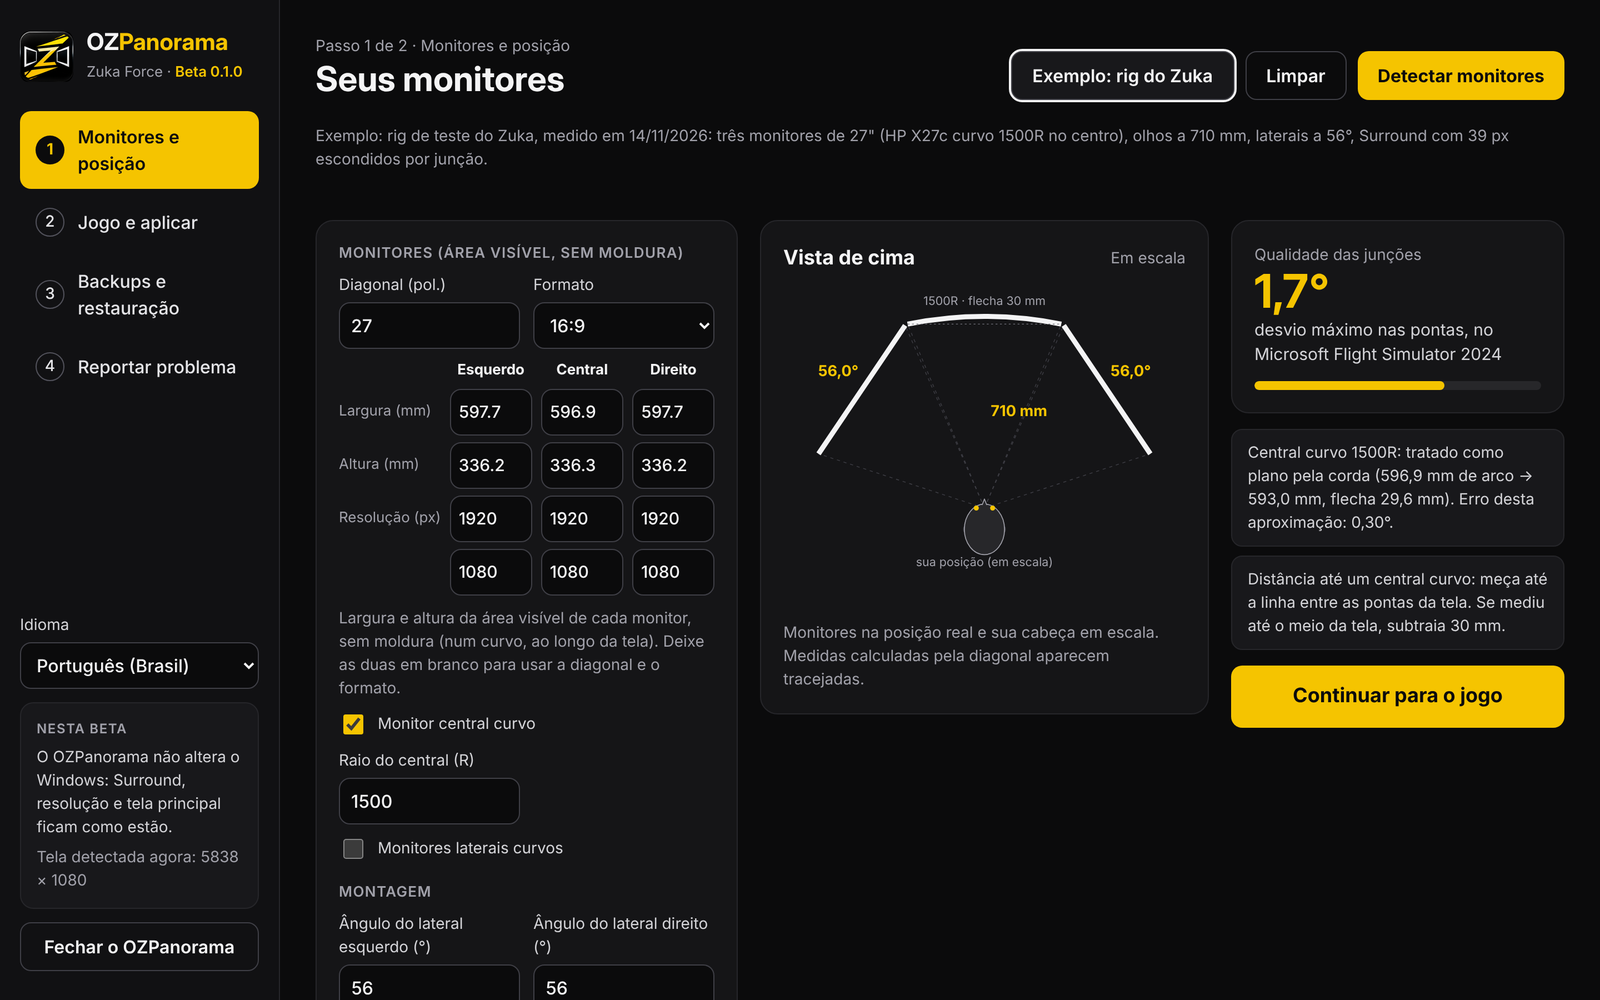
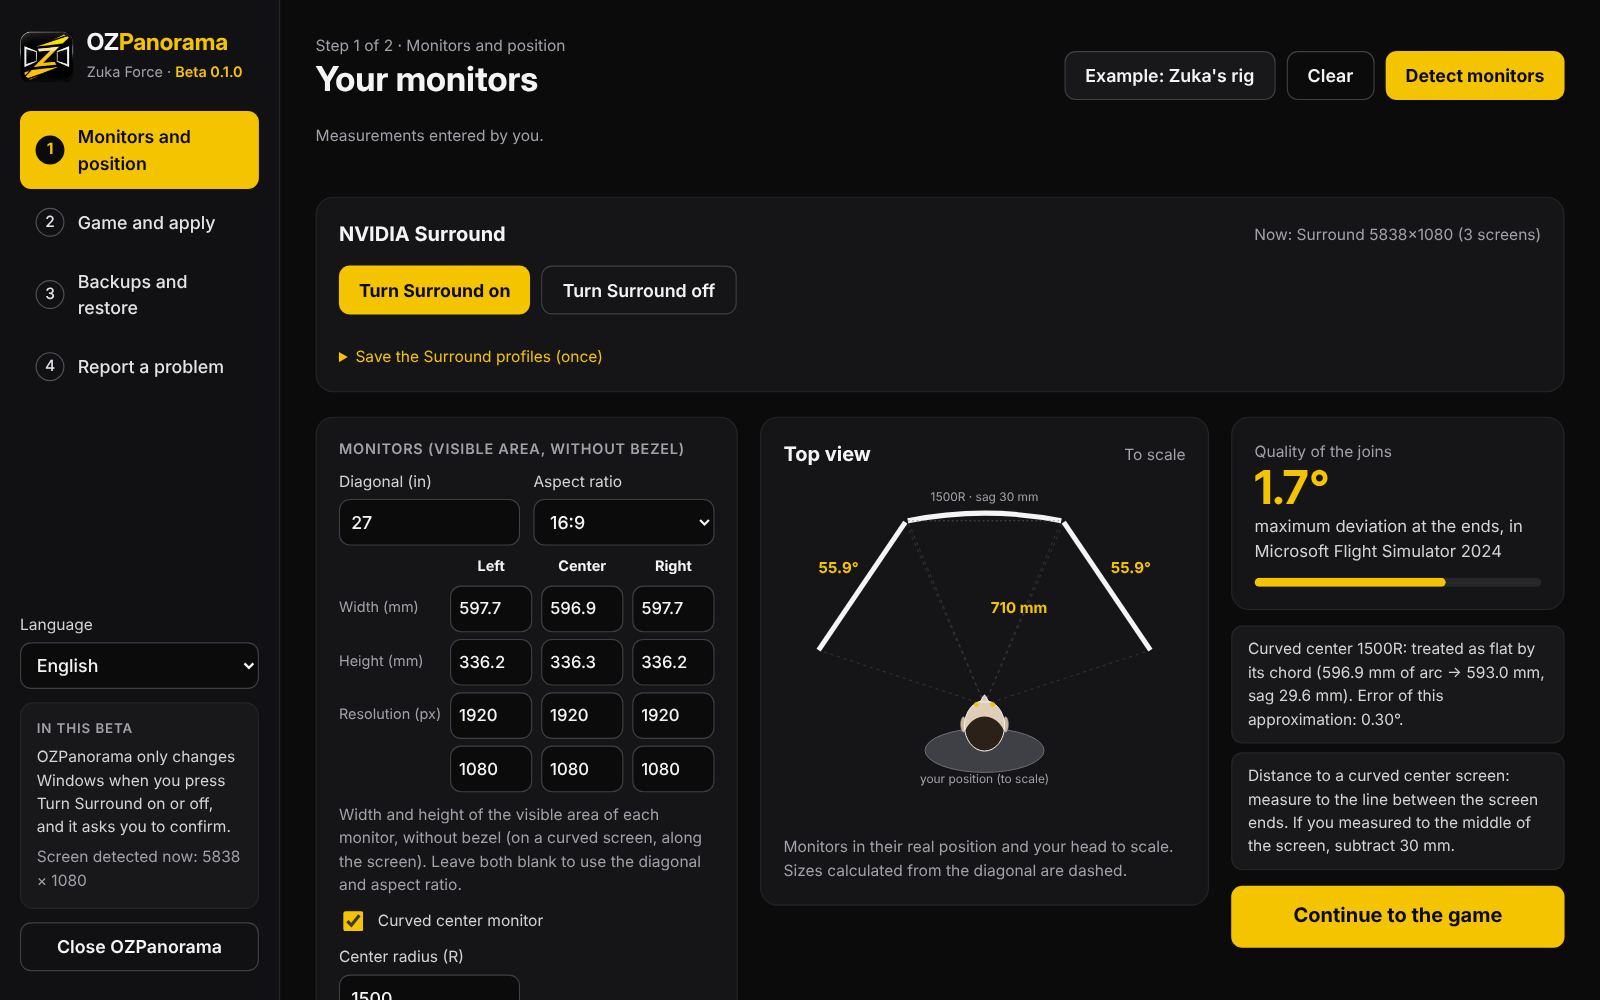
README images in English; build and release workflows
Banner and screenshots in English. GitHub Actions: build.yml builds and tests on every
push to main; release.yml builds, tests, zips and publishes the pre-release when the
commit is pushed to the 'lancamento' branch (same flow as FS25 RealFFB).

Claude-Session: https://claude.ai/code/session_01CmLcMfMjvV5KRkkxqEFjL6

diff --git a/.github/RELEASE_NOTES.md b/.github/RELEASE_NOTES.md
@@ -1,0 +1,20 @@
+**First public Beta of OZPanorama.** Triple monitors done right in MSFS 2024, ETS2, ATS and iRacing.
+
+- Calculation from your real rig measurements, preview of every change, checked backup, atomic write and restore.
+- Detect monitors (also with NVIDIA Surround on), bezels from Surround or the manufacturers' sheets.
+- Side angle from the distance between the outer ends of the left and right monitors.
+- Top view to scale with a head in real proportions.
+- NVIDIA Surround on/off with one click (driver profiles, confirmation, automatic rollback in 20 s).
+- English, Português (Brasil), Español, Français.
+
+### Install
+Download **OZPanorama-{VERSION}.zip**, extract it to a folder of your own and open `OZPanorama.exe`. No install needed.
+The exe is **not digitally signed yet**: SmartScreen may show "Windows protected your PC" > "More info" > "Run anyway". Only do it if the SHA-256 below matches.
+
+### Verify the file (SHA-256)
+```
+{SHA256SUMS}
+```
+In PowerShell: `Get-FileHash .\OZPanorama-{VERSION}.zip -Algorithm SHA256` - the value must match the one above.
+
+Tested on the author's rig only. See [known limitations](https://github.com/OptimusZuka/OZPanorama/blob/main/docs/LIMITATIONS.md) and use **Report a problem** in the app.
